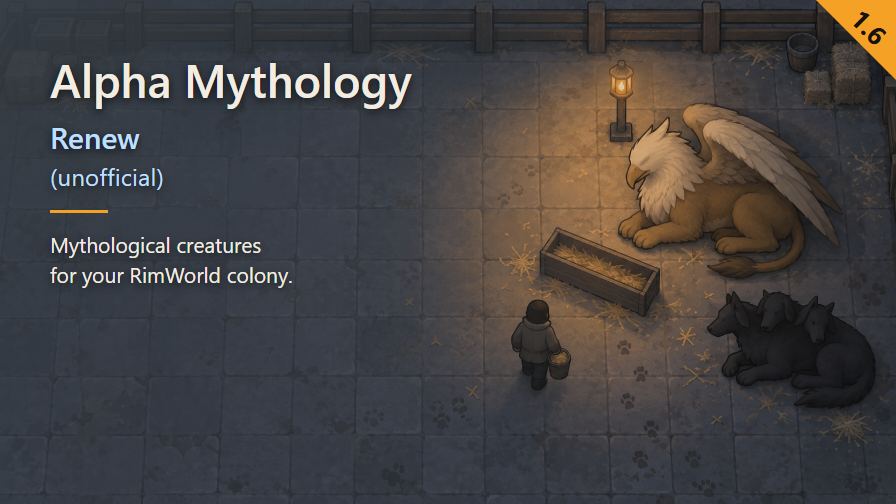
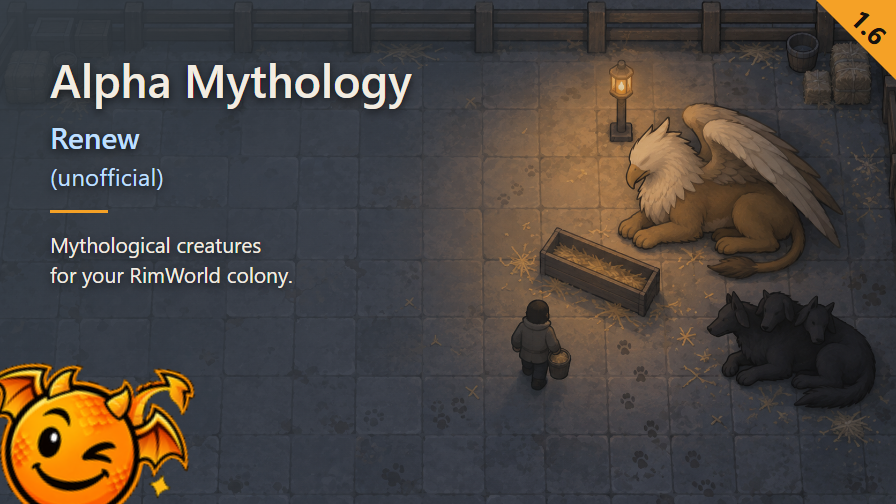
Preview: merge the ModIcon corner badge into the official render pipeline
render-preview.cjs now composites Art/ModIcon-badge.png (the pre-baked,
background-removed, alpha-trimmed ModIcon.png — produced once via
Make-PreviewBadge.ps1 -SaveTrimmedIconTo, since this pipeline has no Node
image library) as a .icon-badge <img>, bottom-left, width 220px,
translate(-12.5%,12.5%) rotate(15deg), alongside the existing '1.6' corner
badge. Mod/About/Preview.png re-rendered and re-verified (verify-preview.py:
all contrast ratios >= 4.5, 592971 bytes < 900000).

Removes the standalone Preview_with_ModIcon_badge_left.png composite: the
official Preview.png now carries the badge directly, the separate file was
redundant.

Changed region(s): [[0.0, 0.7143, 0.2188, 1.0]]

diff --git a/Art/Preview-layout.html b/Art/Preview-layout.html
@@ -11,4 +11,13 @@ h1{font-size:46px;font-weight:600;line-height:1.1;letter-spacing:0}
 p{font-size:21px;font-weight:400;line-height:1.45;width:430px;letter-spacing:0;color:var(--inkPrimary)}
 .badge{position:absolute;right:0;top:0;width:80px;height:80px;background:var(--accent);clip-path:polygon(0 0,100% 0,100% 100%)}
 .version{position:absolute;left:869px;top:27px;transform:translate(-50%,-50%) rotate(45deg);font-size:26px;font-weight:700;line-height:1;color:var(--badgeInk)}
-</style><div class="veil"></div><div class="copy"><h1><span class="title-main">Alpha Mythology</span><br><span class="suffix">Renew</span></h1><div class="tag">(unofficial)</div><div class="rule"></div><p>Mythological creatures<br>for your RimWorld colony.</p></div><div class="badge"></div><div class="version">1.6</div>
+/* ModIcon-badge.png is a pre-baked asset (Make-PreviewBadge.ps1 -SaveTrimmedIconTo): the shipped ModIcon.png's
+   near-black background flood-filled to transparent from its border only (a plain color-key would also blank
+   matching pixels inside the artwork), then cropped to its own alpha bounding box (no dead transparent margin).
+   That PNG->PNG step needs System.Drawing; this pipeline has no Node image library, so it stays a one-off
+   asset here rather than a per-render step. Placement below is plain CSS: width fixes the box, height follows
+   the asset's own aspect ratio; left/bottom flush it into the corner; translate(%,%) is a fraction of the
+   badge's OWN box (not the page), rotate happens after, around the default center transform-origin.
+*/
+.icon-badge{position:absolute;left:0;bottom:0;width:220px;transform:translate(-12.5%,12.5%) rotate(15deg)}
+</style><div class="veil"></div><div class="copy"><h1><span class="title-main">Alpha Mythology</span><br><span class="suffix">Renew</span></h1><div class="tag">(unofficial)</div><div class="rule"></div><p>Mythological creatures<br>for your RimWorld colony.</p></div><div class="badge"></div><div class="version">1.6</div><img class="icon-badge" src="ModIcon-badge.png">
